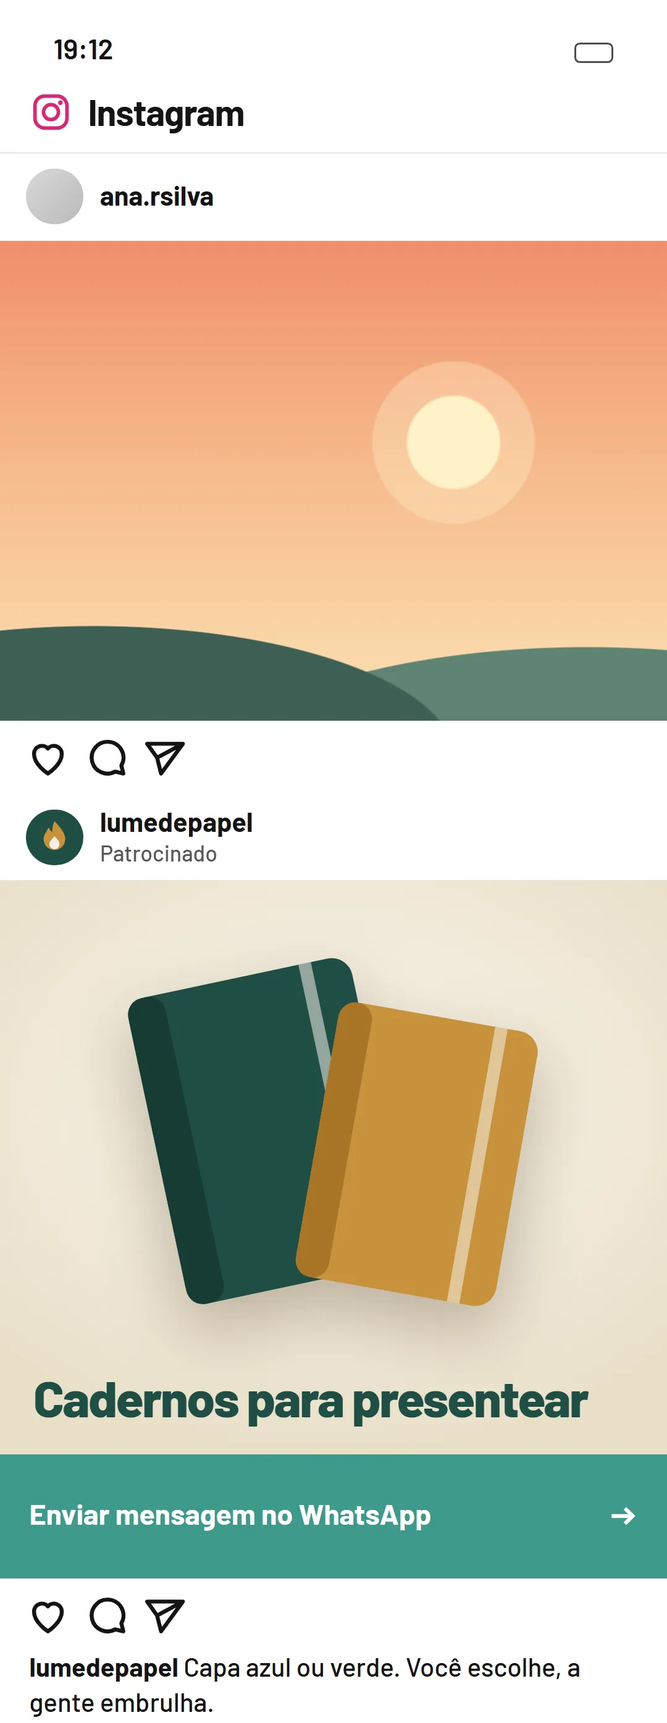
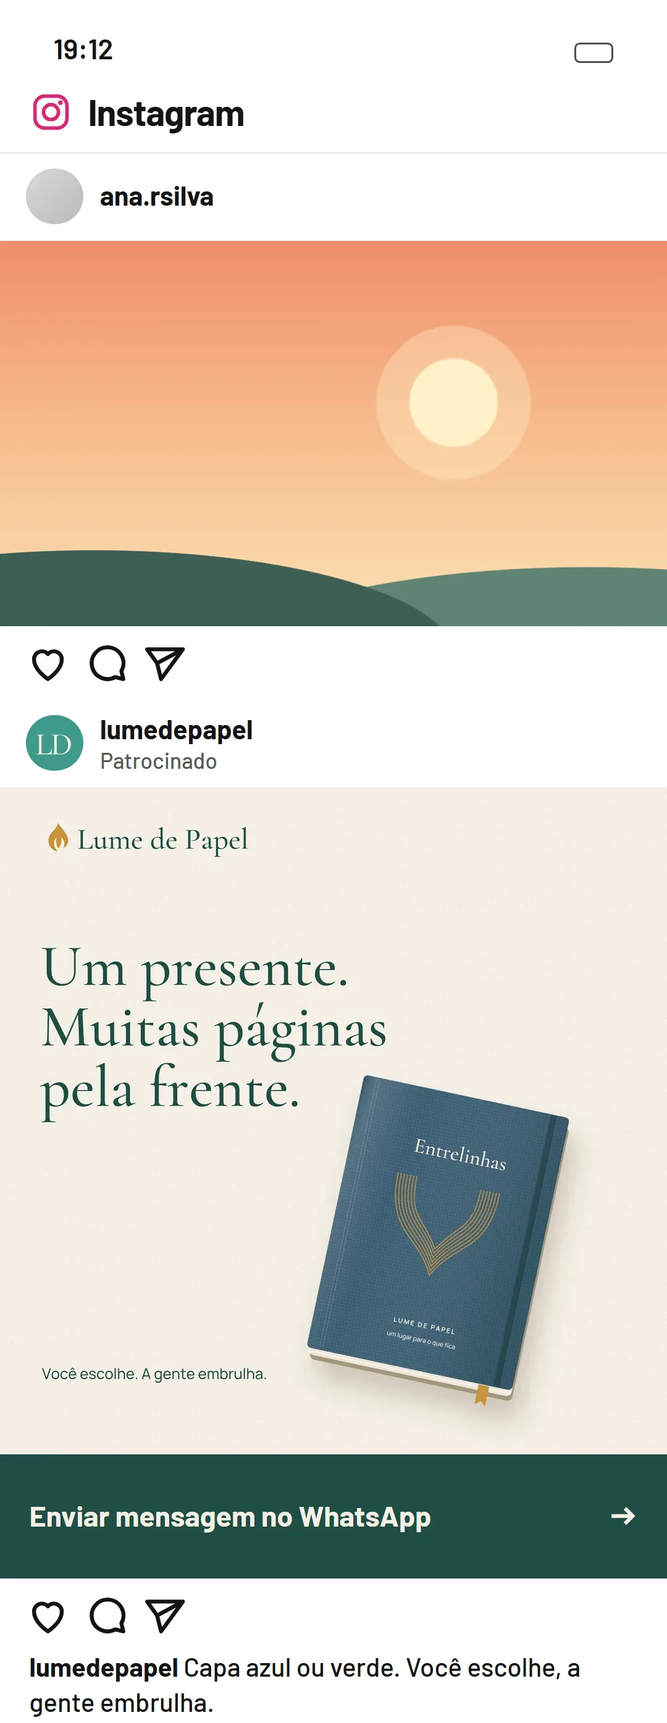
wip: marca Lume no site, parcial (Fable 5.2 parou no limite)

diff --git a/conceitos/d-site-feed/index.html b/conceitos/d-site-feed/index.html
@@ -32,9 +32,10 @@
 
 <link rel="preconnect" href="https://fonts.googleapis.com">
 <link rel="preconnect" href="https://fonts.gstatic.com" crossorigin>
-<link rel="preconnect" href="https://cdn.jsdelivr.net">
+<link rel="preconnect" href="https://cdn.jsdelivr.net" crossorigin>
 <link href="https://fonts.googleapis.com/css2?family=Barlow:wght@500;600;700;800;900&display=swap" rel="stylesheet">
-<link rel="preload" as="image" href="assets/fone.webp" fetchpriority="high">
+<link rel="modulepreload" href="https://cdn.jsdelivr.net/npm/three@0.160.0/build/three.module.min.js">
+<link rel="preload" as="image" href="assets/tela-atendimento.webp" fetchpriority="high">
 
 <script type="application/ld+json">
 {
@@ -244,9 +245,13 @@
 }
 </script>
 <style>
+/* as duas letras da Lume de Papel, em subconjunto local só com as letras que aparecem (lista no NOTAS.md, "Marca Lume no site") */
+@font-face{font-family:"Cormorant Garamond";src:url(assets/lume/cormorant-500.woff2) format("woff2");font-weight:500;font-display:swap}
+@font-face{font-family:Manrope;src:url(assets/lume/manrope-450.woff2) format("woff2");font-weight:450;font-display:swap}
+@font-face{font-family:Manrope;src:url(assets/lume/manrope-650.woff2) format("woff2");font-weight:650;font-display:swap}
 :root{
   --laranja:#FFA300; --preto:#070707; --branco:#F4F5F0; --papel:#ECE9E2; --tinta:#0A0A09; --cinza:#A9A9A2;
-  --lv:#3F998B; --lve:#1F4D45; --la:#C8923C; --lc:#F4EFE4; --lt:#1C2422;
+  --lv:#3F998B; --lve:#1F4D45; --la:#C8923C; --lc:#F4EFE4; --lt:#263B35; --l-serifa:"Cormorant Garamond",Georgia,serif; --l-sans:Manrope,Barlow,sans-serif;
   --g:20px; --max:1240px; --doca:84px; --persp:700px; --olho:110px;
   --ease:cubic-bezier(.16,.84,.24,1);
   interpolate-size:allow-keywords;
@@ -343,7 +348,7 @@ p a:active,address a:active{opacity:.55}
   p a{transition:background-color .2s;border-radius:3px}
   p a:hover{background-color:rgba(255,163,0,.4)}
   .laranja p a:hover{background-color:rgba(10,10,9,.16)}
-  .post-cta:hover{background:var(--lve)}
+  .post-cta:hover{background:#19423B}
   .doca a:hover,.doca button:hover{translate:0 -2px}
   .chip[aria-pressed=true]:hover svg{scale:1.1}
 }
@@ -454,27 +459,28 @@ html:not(.js) .parada .txt{opacity:1}
 
 /* ---------- 3. marca: o livro que se monta ---------- */
 .livro{position:relative;margin-top:36px;border-radius:24px;background:var(--lc);color:var(--lt);padding:14px;box-shadow:0 44px 70px -34px rgba(40,30,10,.5),inset 0 0 0 1px rgba(28,36,34,.09)}
-.livro-topo{display:flex;justify-content:space-between;align-items:center;gap:10px;padding:4px 6px 14px;font:700 11px/1.3 Barlow;letter-spacing:.14em;text-transform:uppercase}
-.pecas{display:grid;grid-template-columns:1fr 1fr;gap:10px}
+.livro-topo{display:flex;justify-content:space-between;align-items:center;gap:10px;padding:4px 6px 14px;font:700 11px/1.3 Barlow;letter-spacing:.1em;text-transform:uppercase}
+.livro-topo span span{display:none}
+.pecas{display:grid;grid-template-columns:repeat(10,1fr);grid-template-areas:"l l l l l l l l l l" "c c c c c c c c c c" "f f f f f f f f f f" "p p p p e e e e e e";gap:10px}
 .peca{position:relative;display:block;width:100%;padding:0;border:0;border-radius:15px;overflow:hidden;min-height:150px;background:#fff;color:inherit;text-align:left;cursor:pointer;transform:translate(calc(var(--dx,0px) * (1 - var(--m,1))),calc(var(--dy,60px) * (1 - var(--m,1)))) rotate(calc(var(--r,0deg) * (1 - var(--m,1))));opacity:calc(var(--m,1) * 2.2);transition:scale .35s var(--ease),box-shadow .35s}
 .peca.frente{scale:1.04;z-index:3;box-shadow:0 0 0 3px var(--laranja),0 26px 34px -14px rgba(40,30,10,.6)}
 .peca .leg{position:absolute;left:11px;bottom:9px;z-index:2;font:700 10px/1 Barlow;letter-spacing:.13em;text-transform:uppercase;opacity:.66}
-.larga{grid-column:span 2}
-.p-logo{background:radial-gradient(80% 90% at 80% 0%,#2C6B5F,var(--lve));color:var(--lc);display:grid;place-items:center}
-.lume-logo{display:flex;align-items:center;gap:12px;width:74%;max-width:330px;color:var(--lc)}
-.lume-logo svg:first-child{width:19%;height:auto;flex:none}
-.lume-logo svg:last-child{flex:1;height:auto;fill:currentColor}
-.p-cores{display:flex;min-height:98px}
-.p-cores span:not(.leg){flex:1;display:flex;flex-direction:column;justify-content:flex-end;padding:9px 8px;font:700 9.5px/1.3 Barlow;letter-spacing:.06em;text-transform:uppercase}
-.p-cores b{display:block;font-weight:600;opacity:.75;letter-spacing:.02em}
-.p-fachada{min-height:0}
-.p-fachada svg{width:100%;height:auto}
-.p-post{background:var(--lv);color:var(--lc);padding:13px 12px 30px;display:flex;flex-direction:column}
-.p-post svg{width:70%;margin:0 auto}
-.p-post em{margin-top:auto;font:800 18px/1.02 Barlow;font-style:normal;letter-spacing:-.025em}
-.p-sacola{background:#DCE7E3;display:grid;place-items:center}
-.p-sacola svg{width:56%;height:auto;margin-bottom:14px}
-.livro-leg{display:flex;align-items:center;gap:10px;min-height:52px;margin-top:12px;padding:10px 12px;border-radius:13px;background:var(--lve);color:var(--lc);font:500 14.5px/1.35 Barlow}
+.peca img{position:absolute;inset:0;width:100%;height:100%;object-fit:cover}
+.peca img+.leg{left:8px;bottom:8px;padding:5px 7px;border-radius:6px;background:rgba(244,239,228,.92);opacity:1}
+.p-logo{grid-area:l;background:var(--lve);color:var(--lc);display:grid;place-items:center}
+.lume-logo{width:74%;max-width:330px;height:auto;fill:currentColor}
+.p-cores{grid-area:c;min-height:0;display:flex;gap:8px;padding:10px 10px 11px}
+.p-cores span{flex:1;min-width:0;display:flex;flex-direction:column;gap:3px;font:500 clamp(13px,3.6vw,15.5px)/1.05 var(--l-serifa);color:var(--lve)}
+.p-cores i{height:52px;margin-bottom:5px;border-radius:7px}
+.p-cores b{font:650 9.5px/1.2 var(--l-sans);letter-spacing:.02em;color:var(--lt)}
+.p-fachada{grid-area:f;min-height:0;aspect-ratio:1100/655}
+.p-post{grid-area:p;min-height:0;aspect-ratio:1}
+.p-post{outline:1px solid rgba(38,59,53,.14);outline-offset:-1px}
+.p-post img+.leg{left:auto;right:8px;bottom:auto;top:8px}
+.p-sacola{grid-area:e;min-height:0}
+.livro-pe{display:grid;gap:10px;margin-top:12px}
+.livro-pe .btn svg{rotate:-45deg}
+.livro-leg{display:flex;align-items:center;gap:10px;min-height:54px;padding:10px 12px;border-radius:13px;background:var(--lve);color:var(--lc);font:500 14.5px/1.35 Barlow}
 .livro-leg b{font-weight:800;color:#F1C77B}
 .livro-leg::before{content:"";width:8px;height:8px;border-radius:50%;background:var(--la);flex:none;box-shadow:0 0 0 4px rgba(200,146,60,.3)}
 
@@ -492,14 +498,13 @@ html:not(.js) .parada .txt{opacity:1}
 .post-topo{display:flex;align-items:center;gap:2.6cqw;height:13cqw;padding:0 4cqw;font:700 4cqw/1.15 Barlow}
 .post-topo small{display:block;font:500 3.3cqw/1.2 Barlow;opacity:.7}
 .av{width:8.4cqw;height:8.4cqw;border-radius:50%;flex:none;background:linear-gradient(135deg,#d9d9d9,#b9b9b9);display:grid;place-items:center}
-.av-lume{background:var(--lve)}
-.av-lume svg{width:62%;height:62%}
+.av-lume,.g-site i{background:var(--lv);color:var(--lc)}
+.av-lume svg,.g-site i svg{width:100%;height:100%;fill:currentColor}
 .post-foto{position:relative;width:100%}
-.foto-a{height:72cqw;background:radial-gradient(circle at 68% 42%,#FFF1C9 0 8.5%,rgba(255,241,201,.35) 9% 15%,transparent 15.5%),radial-gradient(90% 46% at 14% 108%,#3E5F55 0 60%,transparent 60.5%),radial-gradient(100% 52% at 88% 116%,#5F8472 0 60%,transparent 60.5%),linear-gradient(180deg,#F08E6B,#F6B98A 46%,#FBE2B4)}
-.foto-ad{height:86cqw;background:radial-gradient(70% 60% at 50% 40%,#FBF7EE,#E9DFC8);display:grid;place-items:center;overflow:hidden}
-.foto-ad svg{width:76%;height:auto;margin-top:-12%;filter:drop-shadow(0 4cqw 5cqw rgba(60,40,10,.3))}
-.foto-ad p{position:absolute;left:5cqw;bottom:4.5cqw;right:5cqw;font:800 7.6cqw/1 Barlow;letter-spacing:-.03em;color:var(--lve)}
-.post-cta{display:flex;justify-content:space-between;align-items:center;height:18.6cqw;min-height:44px;padding:0 4.4cqw;background:var(--lv);color:#fff;font:700 4.3cqw/1 Barlow;text-decoration:none;transition:background .2s}
+.foto-a{height:58cqw;background:radial-gradient(circle at 68% 42%,#FFF1C9 0 8.5%,rgba(255,241,201,.35) 9% 15%,transparent 15.5%),radial-gradient(90% 46% at 14% 108%,#3E5F55 0 60%,transparent 60.5%),radial-gradient(100% 52% at 88% 116%,#5F8472 0 60%,transparent 60.5%),linear-gradient(180deg,#F08E6B,#F6B98A 46%,#FBE2B4)}
+.foto-ad{height:100cqw;background:var(--lc)}
+.foto-ad img{display:block;width:100%;height:100%;object-fit:cover}
+.post-cta{display:flex;justify-content:space-between;align-items:center;height:18.6cqw;min-height:44px;padding:0 4.4cqw;background:var(--lve);color:var(--lc);font:700 4.3cqw/1 Barlow;text-decoration:none;transition:background .2s}
 .post-cta:active{background:#143630}
 .post-cta svg{width:4.6cqw;height:4.6cqw}
 .post-acoes{height:11cqw;display:flex;align-items:center;padding:0 3.6cqw}
@@ -510,8 +515,7 @@ html:not(.js) .parada .txt{opacity:1}
 .g-busca svg{width:19px;height:19px;flex:none}
 .g-pat{margin-top:14px;font:700 13.5px/1 Barlow}
 .g-site{display:flex;align-items:center;gap:9px;margin-top:9px;font:500 13.5px/1.2 Barlow}
-.g-site i{width:28px;height:28px;border-radius:50%;background:var(--lve);display:grid;place-items:center;flex:none}
-.g-site i svg{width:16px;height:16px}
+.g-site i{width:28px;height:28px;border-radius:50%;display:grid;flex:none;overflow:hidden}
 .g-site small{display:block;font:500 12px/1.2 Barlow;color:#4d5156}
 .g-tit{margin-top:8px;font:500 19.5px/1.22 Barlow;color:#1a0dab}
 .g-desc{margin-top:5px;font:500 14px/1.42 Barlow;color:#4d5156}
@@ -648,15 +652,14 @@ html:not(.js) .serie,html:not(.js) .serie-leg{display:none}
 .msg.nota small span{color:#B9591A;background:#F3DCCB;padding:.3cqw 1.8cqw;border-radius:3cqw;margin-left:1cqw;white-space:nowrap}
 .chat-campo{flex:none;margin:0 3.4cqw 4.4cqw;height:12cqw;border-radius:6cqw;background:#fff;display:flex;align-items:center;justify-content:space-between;padding:0 1.2cqw 0 5cqw;font:500 4.1cqw/1 Barlow;color:#8b8f8e}
 .chat-campo i{width:9.6cqw;height:9.6cqw;border-radius:50%;background:var(--lv)}
-.pdf{position:absolute;z-index:5;top:9%;right:max(34px,calc(50% - 196px));width:min(44vw,190px);padding:13px 13px 14px;border-radius:6px;background:#fff;color:var(--lt);box-shadow:0 30px 50px -14px rgba(60,20,0,.6),0 0 0 1px rgba(0,0,0,.05);font:500 11px/1.4 Barlow;transform-origin:20% 100%;opacity:0;will-change:transform,opacity}
-.pdf-topo{display:flex;align-items:center;gap:6px;padding-bottom:8px;border-bottom:2px solid var(--lve);color:var(--lve)}
-.pdf-topo svg:first-child{width:17px;height:17px;flex:none}
-.pdf-topo svg:last-child{width:86px;height:auto;fill:currentColor}
-.pdf-tit{margin:10px 0 2px;font:800 17px/1 Barlow;letter-spacing:-.02em}
+.pdf{position:absolute;z-index:5;top:9%;right:max(34px,calc(50% - 196px));width:min(44vw,190px);padding:13px 13px 14px;border-radius:6px;background:#fff;color:var(--lt);box-shadow:0 30px 50px -14px rgba(60,20,0,.6),0 0 0 1px rgba(0,0,0,.05);font:450 11px/1.4 var(--l-sans);transform-origin:20% 100%;opacity:0;will-change:transform,opacity}
+.pdf-topo{padding-bottom:9px;border-bottom:1.5px solid var(--lve);color:var(--lve)}
+.pdf-topo svg{display:block;width:106px;height:auto;fill:currentColor}
+.pdf-tit{margin:10px 0 3px;font:500 1.6em/1 var(--l-serifa);color:var(--lve)}
 .pdf dl{margin-top:8px}
 .pdf dl div{display:flex;justify-content:space-between;gap:8px;padding:5px 0;border-top:1px solid rgba(28,36,34,.12)}
 .pdf dt{opacity:.7}
-.pdf dd{font-weight:700;white-space:nowrap}
+.pdf dd{font-weight:650;white-space:nowrap}
 .pdf .total{font-size:13px}
 .pdf .selo{display:inline-block;margin-top:10px;padding:5px 8px;border-radius:5px;background:var(--tinta);color:var(--laranja);font:700 9.5px/1 Barlow;letter-spacing:.12em;text-transform:uppercase}
 .pdf .arq{display:block;margin-top:7px;font:600 9.5px/1 Barlow;opacity:.55}
@@ -821,9 +824,11 @@ html:not(.js) .d-indice{display:none}
   li:nth-child(even) .parada .no{margin-left:84px}
   .parada h3{font-size:32px}
   .livro{padding:22px}
-  .pecas{grid-template-columns:repeat(4,1fr);gap:14px}
-  .p-fachada{grid-column:span 2}
-  .p-logo{min-height:200px}
+  .livro-topo span span{display:inline}
+  .pecas{grid-template-areas:"l l l l l l p p p p" "c c c c c c c c c c" "f f f f f e e e e e";gap:14px}
+  .p-fachada,.p-sacola{aspect-ratio:8/5}
+  .p-cores{gap:12px;padding:14px 14px 15px}
+  .livro-pe{grid-template-columns:1fr auto;gap:12px;align-items:center}
   .af{width:320px}
   .g-card{margin-top:-96px;margin-right:2%}
   .painel,.agenda{padding:28px 30px 22px}
@@ -834,7 +839,7 @@ html:not(.js) .d-indice{display:none}
   .cap p:not(.kicker){font-size:18px}
   .palco-cena{top:calc(56px + 230px + 20px)}
   .pdf{width:230px;font-size:13px;right:calc(50% - 300px)}
-  .pdf-topo svg:last-child{width:110px}
+  .pdf-topo svg{width:130px}
   .lq{width:min(34vw,300px)}
   .leque{height:calc(min(34vw,300px) * 2.155 + 30px)}
   .chips{grid-template-columns:1fr 1fr}
@@ -870,7 +875,6 @@ html:not(.js) .d-indice{display:none}
   .caminho .wrap,.marca-sec .wrap{display:grid;grid-template-columns:.85fr 1.15fr;gap:0 72px;align-items:start}
   .caminho .cab,.marca-sec .cab{position:sticky;top:110px}
   .rota,.livro{margin-top:0}
-  .p-logo{min-height:240px}
   .trafego .wrap{display:grid;grid-template-columns:1fr 1fr;gap:0 72px;align-items:center}
   .trafego .anuncio-cena{margin-top:0}
   .trafego .painel{grid-column:1/-1;margin-top:90px}
@@ -903,7 +907,7 @@ html:not(.js) .d-indice{display:none}
   .palco-cena>.fone{height:min(100%,62vw)}
   /* a proposta encosta na lateral direita do aparelho (meia largura dele = 19vh ou 14,4vw), antes do índice */
   .pdf{width:260px;font-size:14px;left:calc(50% + min(19vh,14.4vw) - 36px);right:auto;top:calc(50% - min(41vh,31vw) * .68);padding:20px}
-  .pdf-topo svg:last-child{width:130px}
+  .pdf-topo svg{width:150px}
   .prova{padding:120px 0 110px}
   .prova .wrap{display:grid;grid-template-columns:1.2fr .8fr;gap:72px;align-items:end}
   .prova .convite{margin-top:0;grid-template-columns:1fr;border-top:0;padding:28px;border-radius:26px;background:var(--branco);box-shadow:0 30px 50px -30px rgba(40,30,10,.4)}
@@ -955,7 +959,7 @@ html:not(.js) .d-indice{display:none}
 /* tablet deitado e notebook estreito: a proposta encolhe e o índice do palco fica só com os traços */
 @media (min-width:1024px) and (max-width:1365px){
   .pdf{width:230px;font-size:13px;padding:16px}
-  .pdf-topo svg:last-child{width:112px}
+  .pdf-topo svg{width:132px}
 }
 @media (min-width:1024px) and (max-width:1279px){
   .palco-indice a{font-size:0;gap:0;padding-left:0;min-width:44px}
@@ -979,9 +983,8 @@ html:not(.js) .d-indice{display:none}
   <symbol id="i-check" viewBox="0 0 16 16"><path fill="none" stroke="currentColor" stroke-width="2.4" stroke-linecap="round" stroke-linejoin="round" d="m3 8.5 3.2 3.2L13 4.8"/></symbol>
   <symbol id="i-menu" viewBox="0 0 18 18"><path fill="none" stroke="currentColor" stroke-width="2.2" stroke-linecap="round" d="M3 5h12M3 9h8M3 13h12"/></symbol>
   <symbol id="i-acoes" viewBox="0 0 84 24"><g fill="none" stroke="#141414" stroke-width="2" stroke-linejoin="round"><path d="M12 20s-7-4.4-7-10a4 4 0 0 1 7-2.6A4 4 0 0 1 19 10c0 5.600-7 10-7 10z"/><path d="M42 4a8 8 0 1 0 3.900 15l4.100 1-1-4A8 8 0 0 0 42 4z"/><path d="m62 5 18 0-11 15-2-8zM67 12l13-7"/></g></symbol>
-  <symbol id="lume" viewBox="0 0 48 48"><path fill="#C8923C" d="M24 3c8 9 15 16 15 25a15 15 0 0 1-30 0c0-6 4-10 7-16 2 3 3 5 5 6 0-6 1-10 3-15z"/><path fill="#F4EFE4" d="M24 24c4 4 7 7 7 11a7 7 0 0 1-14 0c0-4 4-7 7-11z"/></symbol>
-  <symbol id="lume-nome" viewBox="0 -234 1692 312"><path d="M90 -208L90 -208L78 -206Q75 -206 74 -205Q72 -204 72 -202L72 -202L72 -9Q72 -6 74 -4Q76 -3 79 -3L79 -3L107 -3Q115 -3 121 -6Q128 -9 135 -16Q141 -24 148 -37L148 -37L163 -67Q163 -67 164 -68Q164 -68 165 -68L165 -68Q165 -68 165 -67Q166 -66 165 -65L165 -65L151 1Q151 3 151 4Q150 4 150 4L150 4Q149 4 147 3Q145 2 142 1Q139 0 134 0L134 0L12 0Q11 0 11 0Q10 -1 10 -1L10 -1Q10 -2 12 -2L12 -2L24 -4Q27 -4 29 -5Q30 -6 30 -8L30 -8L30 -202Q30 -204 29 -205Q27 -206 24 -206L24 -206L12 -208Q10 -208 10 -209L10 -209Q10 -209 11 -210Q11 -210 12 -210L12 -210L90 -210Q91 -210 91 -210Q92 -209 92 -209L92 -209Q92 -208 90 -208M264 -4L264 -4L264 -24L264 -25L264 -117Q264 -118 263 -119Q263 -119 262 -119L262 -119L252 -119Q251 -119 251 -120Q251 -120 251 -120L251 -120Q251 -121 251 -121Q251 -121 252 -121L252 -121L295 -133Q296 -134 297 -134Q297 -134 298 -134L298 -134Q299 -134 299 -134Q300 -133 300 -132L300 -132L300 -8Q300 -6 300 -5Q301 -4 303 -4L303 -4L311 -2Q312 -2 313 -2Q313 -1 313 -1L313 -1Q313 -1 313 0Q312 0 312 0L312 0L268 0Q266 0 265 -1Q264 -2 264 -4M179 -35L179 -35L179 -117Q179 -118 178 -119Q178 -119 177 -119L177 -119L167 -119Q166 -119 166 -120Q166 -120 166 -120L166 -120Q166 -121 166 -121Q166 -121 167 -121L167 -121L210 -133Q211 -134 212 -134Q212 -134 213 -134L213 -134Q214 -134 214 -134Q215 -133 215 -132L215 -132L215 -39Q215 -25 221 -19Q227 -13 237 -13L237 -13Q243 -13 249 -16Q256 -19 262 -24L262 -24L267 -29L269 -28L264 -23Q248 -9 236 -3Q223 3 213 3L213 3Q198 3 188 -7Q179 -16 179 -35M365 -132L365 -132L365 -8Q365 -6 366 -5Q367 -4 369 -3L369 -3L377 -2Q378 -2 378 -1L378 -1Q378 0 377 0L377 0L317 0Q316 0 316 0Q316 -1 316 -1L316 -1Q316 -1 316 -2Q317 -2 317 -2L317 -2L326 -4Q328 -4 328 -5Q329 -6 329 -8L329 -8L329 -117Q329 -118 329 -119Q329 -120 327 -120L327 -120L317 -120Q317 -120 316 -120Q316 -120 316 -121L316 -121Q316 -121 316 -121Q317 -122 317 -122L317 -122L360 -134Q362 -134 362 -134Q363 -134 363 -134L363 -134Q364 -134 365 -134Q365 -133 365 -132M367 -108L362 -103L361 -104L366 -109Q381 -123 393 -129Q406 -135 416 -135L416 -135Q431 -135 440 -126Q450 -116 450 -97L450 -97L450 -8Q450 -6 451 -5Q452 -3 454 -3L454 -3L460 -2Q461 -2 461 -1L461 -1Q461 0 459 0L459 0L402 0Q401 0 401 -1L401 -1Q401 -2 402 -2L402 -2L410 -3Q413 -4 414 -6Q414 -7 414 -10L414 -10L414 -93Q414 -106 408 -112Q402 -119 393 -119L393 -119Q386 -119 380 -116Q373 -114 367 -108L367 -108M450 -108L446 -103L444 -104L449 -110Q461 -123 471 -129Q482 -135 493 -135L493 -135Q507 -135 516 -126Q525 -116 527 -97L527 -97L539 -8Q539 -6 540 -5Q541 -3 543 -3L543 -3L549 -2Q549 -2 550 -2Q550 -1 550 -1L550 -1Q550 -1 550 0Q549 0 549 0L549 0L489 0Q488 0 488 -1L488 -1Q488 -2 490 -2L490 -2L497 -3Q500 -4 501 -6Q502 -8 502 -10L502 -10L492 -93Q491 -106 485 -112Q480 -119 471 -119L471 -119Q466 -119 461 -116Q456 -114 450 -108L450 -108M670 -78L670 -78Q670 -76 669 -75Q668 -75 666 -75L666 -75L573 -75L573 -77L631 -77Q634 -77 634 -80L634 -80Q634 -107 627 -120Q620 -132 609 -132L609 -132Q601 -132 595 -127Q589 -121 585 -109Q582 -97 582 -79L582 -79Q582 -48 595 -32Q608 -17 629 -17L629 -17Q644 -17 655 -26Q666 -34 667 -49L667 -49Q667 -49 667 -50Q668 -50 668 -50L668 -50Q668 -50 668 -50Q669 -49 669 -49L669 -49Q668 -34 660 -22Q652 -10 640 -4Q627 3 611 3L611 3Q593 3 579 -5Q565 -13 557 -28Q549 -43 549 -63L549 -63Q549 -85 557 -101Q565 -117 579 -126Q594 -135 614 -135L614 -135Q631 -135 643 -127Q656 -120 663 -107Q670 -94 670 -78M813 -4L813 -17L813 -18L813 -206Q813 -207 812 -207Q812 -208 811 -208L811 -208L801 -208Q800 -208 800 -208Q799 -208 799 -209L799 -209Q799 -210 800 -210Q800 -210 801 -210L801 -210L844 -222Q845 -222 846 -223Q846 -223 847 -223L847 -223Q847 -223 848 -222Q848 -222 848 -221L848 -221L848 -8Q848 -6 849 -5Q850 -4 852 -4L852 -4L860 -2Q861 -2 861 -2Q862 -1 862 -1L862 -1Q862 -1 861 0Q861 0 861 0L861 0L816 0Q815 0 814 -1Q813 -2 813 -4L813 -4M717 -62L717 -62Q717 -84 726 -101Q734 -117 748 -126Q763 -135 780 -135L780 -135Q795 -135 804 -129Q814 -123 819 -113L819 -113L817 -112Q813 -120 805 -125Q798 -130 788 -130L788 -130Q779 -130 771 -124Q763 -117 758 -103Q754 -89 754 -65L754 -65Q754 -44 758 -31Q762 -18 769 -11Q776 -5 785 -5L785 -5Q792 -5 800 -9Q808 -13 815 -23L815 -23L817 -21Q806 -8 796 -2Q785 3 773 3L773 3Q757 3 744 -5Q732 -13 724 -27Q717 -42 717 -62M983 -78L983 -78Q983 -76 982 -75Q981 -75 980 -75L980 -75L887 -75L887 -77L945 -77Q947 -77 947 -80L947 -80Q947 -107 940 -120Q933 -132 923 -132L923 -132Q915 -132 908 -127Q902 -121 899 -109Q895 -97 895 -79L895 -79Q895 -48 908 -32Q921 -17 942 -17L942 -17Q958 -17 968 -26Q979 -34 980 -49L980 -49Q981 -49 981 -50Q981 -50 981 -50L981 -50Q982 -50 982 -50Q982 -49 982 -49L982 -49Q981 -34 974 -22Q966 -10 953 -4Q940 3 925 3L925 3Q906 3 892 -5Q878 -13 870 -28Q862 -43 862 -63L862 -63Q862 -85 870 -101Q878 -117 893 -126Q908 -135 927 -135L927 -135Q944 -135 957 -127Q969 -120 976 -107Q983 -94 983 -78M1207 -131L1207 -131Q1207 -111 1198 -96Q1188 -81 1172 -72Q1155 -64 1134 -64L1134 -64Q1117 -64 1105 -68Q1093 -72 1083 -79L1083 -79L1083 -81Q1090 -76 1096 -74Q1103 -71 1109 -70Q1115 -68 1121 -68L1121 -68Q1134 -68 1144 -76Q1154 -83 1160 -97Q1166 -112 1166 -132L1166 -132Q1166 -156 1159 -173Q1151 -190 1138 -198Q1125 -207 1109 -207L1109 -207L1096 -207L1096 -8Q1096 -6 1098 -6Q1099 -5 1102 -4L1102 -4L1114 -2Q1115 -2 1116 -2Q1116 -1 1116 -1L1116 -1Q1116 -1 1116 0Q1115 0 1115 0L1115 0L1036 0Q1035 0 1035 0Q1034 -1 1034 -1L1034 -1Q1034 -2 1036 -2L1036 -2L1049 -4Q1052 -5 1053 -6Q1054 -7 1054 -8L1054 -8L1054 -201Q1054 -203 1053 -204Q1052 -205 1049 -206L1049 -206L1036 -208Q1034 -208 1034 -209L1034 -209Q1034 -210 1035 -210Q1035 -210 1036 -210L1036 -210L1109 -210Q1138 -210 1160 -200Q1182 -190 1195 -172Q1207 -155 1207 -131M1290 -14L1290 -14L1290 -15L1288 -14L1288 -110Q1288 -121 1284 -127Q1279 -133 1271 -133L1271 -133Q1261 -133 1257 -128Q1252 -123 1252 -117L1252 -117L1252 -105Q1252 -98 1247 -93Q1242 -87 1233 -87L1233 -87Q1227 -87 1223 -91Q1220 -94 1220 -102L1220 -102Q1220 -110 1226 -117Q1232 -125 1245 -130Q1257 -135 1275 -135L1275 -135Q1300 -135 1312 -124Q1324 -114 1324 -95L1324 -95L1324 -17Q1324 -12 1326 -10Q1328 -7 1330 -7L1330 -7Q1333 -7 1335 -9Q1337 -11 1338 -15L1338 -15Q1338 -15 1338 -15Q1338 -16 1339 -16L1339 -16Q1339 -16 1339 -15Q1339 -15 1339 -15L1339 -15Q1339 -12 1337 -8Q1334 -4 1328 -1Q1322 3 1313 3L1313 3Q1301 3 1295 -2Q1290 -7 1290 -14M1212 -29L1212 -29Q1212 -45 1226 -55Q1239 -65 1269 -65L1269 -65Q1278 -65 1284 -64Q1290 -62 1295 -59L1295 -59L1293 -58Q1288 -60 1283 -62Q1278 -63 1271 -63L1271 -63Q1260 -63 1254 -55Q1248 -48 1248 -34L1248 -34Q1248 -21 1254 -14Q1260 -7 1269 -7L1269 -7Q1275 -7 1281 -10Q1287 -13 1291 -19L1291 -19L1293 -18Q1286 -8 1275 -3Q1263 3 1250 3L1250 3Q1233 3 1223 -6Q1212 -15 1212 -29M1389 -133L1389 -133L1389 -114L1389 -113L1389 62Q1389 64 1390 65Q1391 66 1393 67L1393 67L1402 68Q1403 68 1404 69Q1404 69 1404 69L1404 69Q1404 70 1404 70Q1403 70 1403 70L1403 70L1342 70Q1342 70 1341 70Q1341 70 1341 69L1341 69Q1341 69 1341 68Q1342 68 1343 68L1343 68L1350 67Q1352 66 1353 65Q1353 64 1353 62L1353 62L1353 -119Q1353 -120 1353 -120Q1353 -121 1352 -121L1352 -121L1342 -121Q1341 -121 1341 -121Q1340 -121 1340 -122L1340 -122Q1340 -122 1341 -122Q1341 -123 1342 -123L1342 -123L1385 -135Q1386 -135 1387 -135Q1387 -135 1388 -135L1388 -135Q1388 -135 1389 -135Q1389 -134 1389 -133M1387 -108L1387 -108L1385 -110Q1395 -122 1406 -129Q1417 -135 1430 -135L1430 -135Q1446 -135 1459 -127Q1471 -119 1478 -104Q1485 -90 1485 -70L1485 -70Q1485 -47 1477 -31Q1469 -15 1455 -6Q1441 3 1423 3L1423 3Q1409 3 1399 -2Q1390 -8 1384 -19L1384 -19L1387 -21Q1391 -12 1398 -7Q1405 -2 1413 -2L1413 -2Q1424 -2 1431 -8Q1439 -14 1444 -28Q1449 -42 1449 -66L1449 -66Q1449 -88 1445 -101Q1440 -115 1433 -121Q1427 -127 1418 -127L1418 -127Q1410 -127 1402 -123Q1394 -118 1387 -108M1612 -78L1612 -78Q1612 -76 1611 -75Q1610 -75 1608 -75L1608 -75L1516 -75L1516 -77L1574 -77Q1576 -77 1576 -80L1576 -80Q1576 -107 1569 -120Q1562 -132 1552 -132L1552 -132Q1543 -132 1537 -127Q1531 -121 1528 -109Q1524 -97 1524 -79L1524 -79Q1524 -48 1537 -32Q1550 -17 1571 -17L1571 -17Q1587 -17 1597 -26Q1608 -34 1609 -49L1609 -49Q1609 -49 1610 -50Q1610 -50 1610 -50L1610 -50Q1610 -50 1611 -50Q1611 -49 1611 -49L1611 -49Q1610 -34 1602 -22Q1595 -10 1582 -4Q1569 3 1554 3L1554 3Q1535 3 1521 -5Q1507 -13 1499 -28Q1491 -43 1491 -63L1491 -63Q1491 -85 1499 -101Q1507 -117 1522 -126Q1536 -135 1556 -135L1556 -135Q1573 -135 1586 -127Q1598 -120 1605 -107Q1612 -94 1612 -78M1667 -221L1667 -221L1667 -8Q1667 -6 1668 -5Q1669 -4 1671 -4L1671 -4L1679 -2Q1680 -2 1680 -2Q1680 -1 1680 -1L1680 -1Q1680 -1 1680 0Q1680 0 1679 0L1679 0L1619 0Q1618 0 1618 0Q1617 -1 1617 -1L1617 -1Q1617 -1 1618 -2Q1618 -2 1619 -2L1619 -2L1627 -4Q1629 -4 1630 -5Q1631 -6 1631 -8L1631 -8L1631 -206Q1631 -207 1631 -207Q1630 -208 1629 -208L1629 -208L1619 -208Q1619 -208 1618 -208Q1618 -208 1618 -209L1618 -209Q1618 -210 1618 -210Q1619 -210 1619 -210L1619 -210L1662 -222Q1664 -222 1664 -223Q1665 -223 1665 -223L1665 -223Q1666 -223 1666 -222Q1667 -222 1667 -221"/></symbol>
-  <symbol id="cadernos" viewBox="0 0 120 100"><g transform="rotate(-12 45 52)"><rect x="18" y="14" width="54" height="74" rx="5" fill="#1F4D45"/><rect x="18" y="14" width="9" height="74" rx="4" fill="#173B35"/><rect x="60" y="14" width="3" height="74" fill="#F4EFE4" opacity=".55"/></g><g transform="rotate(10 82 56)"><rect x="56" y="24" width="48" height="66" rx="5" fill="#C8923C"/><rect x="56" y="24" width="8" height="66" rx="4" fill="#A87528"/><rect x="93" y="24" width="3" height="66" fill="#F4EFE4" opacity=".55"/></g></symbol>
+  <symbol id="lume-logo" viewBox="27 12 609 104"><path fill="#C8923C" transform="translate(18 11) scale(.8)" d="M48 2C45 24 21 35 14 56C5 83 22 105 47 111C30 92 28 72 42 56C38 76 44 91 49 99C58 87 66 73 59 56C72 66 78 81 67 99C90 86 91 65 80 46C72 32 58 18 48 2Z"/><path transform="translate(115 91) scale(0.091 -0.091)" d="M194 543V85Q194 59 199 45Q205 32 220 28Q236 23 267 23H352Q417 23 458 61Q499 99 512 162Q512 165 517 164Q523 164 523 161Q520 132 517 91Q514 50 514 15Q514 0 499 0H33Q31 0 31 6Q31 12 33 12Q68 12 85 17Q103 22 109 37Q115 52 115 81V544Q115 573 109 588Q103 602 85 608Q68 613 33 613Q31 613 31 619Q31 625 33 625Q57 625 88 624Q120 622 154 622Q190 622 220 624Q251 625 275 625Q277 625 277 619Q277 613 275 613Q240 613 223 608Q206 602 200 587Q194 572 194 543Z"/><path transform="translate(163.867 91) scale(0.091 -0.091)" d="M185 -9Q134 -9 105 23Q75 56 75 114V265Q75 303 68 320Q62 337 45 337Q32 337 14 328Q10 326 8 332Q5 338 9 339L127 394Q129 395 131 395Q135 395 139 392Q143 389 143 385V152Q143 94 164 67Q184 39 226 39Q262 39 298 60Q333 81 358 115L363 104Q321 48 277 19Q234 -9 185 -9ZM407 385V110Q407 76 414 61Q422 46 440 46Q449 46 461 50Q472 53 489 60Q493 62 496 56Q498 51 495 49L371 -10Q369 -11 366 -11Q358 -11 349 11Q339 34 339 76V265Q339 303 332 320Q325 337 309 337Q296 337 277 328Q274 326 272 332Q269 338 273 339L391 394Q393 395 395 395Q398 395 402 392Q407 389 407 385Z"/><path transform="translate(209.094 91) scale(0.091 -0.091)" d="M559 0Q557 0 557 6Q557 12 559 12Q596 12 608 26Q620 39 620 81V235Q620 349 537 349Q503 349 469 328Q435 307 411 272L407 284Q447 340 489 369Q531 397 578 397Q630 397 659 367Q687 337 687 274V81Q687 39 699 26Q710 12 747 12Q751 12 751 6Q751 0 747 0Q729 0 705 1Q680 2 653 2Q627 2 602 1Q578 0 559 0ZM300 0Q297 0 297 6Q297 12 300 12Q336 12 348 26Q360 39 360 81V235Q360 349 278 349Q243 349 210 328Q176 307 152 272L148 284Q188 340 230 369Q272 397 318 397Q370 397 399 368Q428 338 428 279V81Q428 39 439 26Q451 12 488 12Q491 12 491 6Q491 0 488 0Q469 0 445 1Q421 2 394 2Q367 2 343 1Q318 0 300 0ZM43 0Q40 0 40 6Q40 12 43 12Q79 12 91 26Q102 39 102 81V276Q102 308 95 323Q87 338 69 338Q59 338 46 335Q33 331 16 324Q12 322 10 328Q8 333 11 335L134 394Q138 395 140 395Q149 395 160 373Q171 351 171 310V81Q171 39 182 26Q194 12 231 12Q234 12 234 6Q234 0 231 0Q212 0 188 1Q164 2 137 2Q110 2 86 1Q61 0 43 0Z"/><path transform="translate(278.982 91) scale(0.091 -0.091)" d="M224 -12Q162 -12 120 15Q78 43 56 87Q35 131 35 181Q35 241 63 289Q92 338 141 366Q190 395 250 395Q308 395 340 366Q371 337 371 281Q371 268 369 260Q366 253 359 253H290Q294 313 275 344Q255 375 216 375Q167 375 139 333Q112 291 112 220Q112 163 130 120Q148 76 183 52Q218 28 268 28Q301 28 322 37Q344 46 367 59Q369 61 372 57Q376 52 374 49Q338 16 301 2Q264 -12 224 -12ZM89 252 88 267 312 271V253Z"/><path transform="translate(337.677 91) scale(0.091 -0.091)" d="M191 -13Q149 -13 114 11Q78 34 56 77Q35 120 35 179Q35 238 56 279Q78 321 112 347Q147 373 187 386Q227 399 263 399Q299 399 329 388Q360 377 386 359L370 287Q347 328 317 352Q287 377 240 377Q182 377 147 336Q111 295 111 210Q111 153 128 112Q144 71 172 49Q200 27 235 27Q279 27 312 51Q345 75 375 109L384 101Q363 77 335 50Q307 24 271 6Q236 -13 191 -13ZM421 715V112Q421 77 429 61Q437 46 455 46Q464 46 476 48Q489 51 504 59Q508 61 510 55Q513 50 510 48L391 -9Q387 -11 384 -11Q372 -11 363 13Q353 37 353 81V594Q353 630 347 646Q340 662 322 662Q313 662 303 658Q293 655 278 648Q274 647 272 653Q269 659 272 660L405 724Q407 725 410 725Q413 725 417 722Q421 719 421 715Z"/><path transform="translate(384.269 91) scale(0.091 -0.091)" d="M224 -12Q162 -12 120 15Q78 43 56 87Q35 131 35 181Q35 241 63 289Q92 338 141 366Q190 395 250 395Q308 395 340 366Q371 337 371 281Q371 268 369 260Q366 253 359 253H290Q294 313 275 344Q255 375 216 375Q167 375 139 333Q112 291 112 220Q112 163 130 120Q148 76 183 52Q218 28 268 28Q301 28 322 37Q344 46 367 59Q369 61 372 57Q376 52 374 49Q338 16 301 2Q264 -12 224 -12ZM89 252 88 267 312 271V253Z"/><path transform="translate(442.964 91) scale(0.091 -0.091)" d="M200 85Q200 55 207 40Q215 24 239 18Q263 12 311 12Q314 12 314 6Q314 0 311 0Q279 0 242 1Q204 2 160 2Q127 2 96 1Q64 0 39 0Q37 0 37 6Q37 12 39 12Q74 12 92 17Q109 22 115 37Q120 52 120 81V544Q120 573 115 588Q109 602 92 608Q74 613 39 613Q37 613 37 619Q37 625 39 625Q64 625 95 624Q126 622 159 622Q185 622 222 625Q260 628 298 628Q356 628 403 611Q449 594 477 558Q505 522 506 464Q506 412 487 374Q468 336 435 311Q403 286 364 274Q324 262 286 262Q274 262 262 263Q249 264 238 267Q234 268 236 274Q237 281 240 280Q249 278 259 277Q268 276 275 276Q313 276 345 294Q377 312 397 349Q417 387 417 443Q417 497 398 534Q380 571 347 591Q314 611 271 611Q243 611 227 607Q212 603 206 588Q200 573 200 542Z"/><path transform="translate(492.65 91) scale(0.091 -0.091)" d="M316 -6Q312 -8 307 -8Q292 -8 278 14Q265 37 265 79V262Q265 324 250 351Q234 377 207 377Q182 377 167 364Q152 350 146 332Q139 315 136 300Q134 281 124 268Q115 255 93 255Q73 255 64 265Q55 275 55 287Q55 308 74 327Q94 346 124 362Q154 378 186 387Q219 396 245 396Q286 396 309 370Q333 343 333 292V108Q333 75 342 59Q351 43 371 43Q388 43 415 54Q419 56 421 50Q424 45 419 43ZM132 -7Q92 -7 71 13Q51 33 51 63Q51 87 64 104Q77 120 101 133Q126 146 161 159L275 201L278 188L187 151Q172 145 159 137Q147 129 139 118Q131 106 131 90Q131 66 147 51Q163 35 186 35Q195 35 205 38Q215 41 229 49L288 86L290 72L217 24Q194 7 174 0Q155 -7 132 -7Z"/><path transform="translate(530.87 91) scale(0.091 -0.091)" d="M30 -275Q27 -275 27 -269Q27 -263 30 -263Q68 -263 79 -250Q91 -237 91 -194V274Q91 308 83 323Q76 339 56 339Q47 339 34 335Q21 332 5 324Q1 323 -2 328Q-4 334 -1 335L119 393Q122 395 126 395Q139 395 149 372Q159 349 159 304V-194Q159 -222 166 -237Q173 -252 194 -258Q214 -263 255 -263Q258 -263 258 -269Q258 -275 255 -275Q228 -275 195 -274Q162 -273 125 -273Q98 -273 73 -274Q48 -275 30 -275ZM258 -13Q220 -13 191 -5Q163 3 126 25L147 82Q173 51 204 30Q234 9 285 9Q335 9 367 54Q400 98 400 184Q400 269 362 312Q324 356 271 356Q229 356 197 333Q166 310 136 277L127 286Q178 345 225 372Q272 399 320 399Q362 399 397 378Q432 356 454 315Q475 274 475 215Q475 153 455 110Q434 66 401 39Q367 12 330 0Q293 -13 258 -13Z"/><path transform="translate(577.371 91) scale(0.091 -0.091)" d="M224 -12Q162 -12 120 15Q78 43 56 87Q35 131 35 181Q35 241 63 289Q92 338 141 366Q190 395 250 395Q308 395 340 366Q371 337 371 281Q371 268 369 260Q366 253 359 253H290Q294 313 275 344Q255 375 216 375Q167 375 139 333Q112 291 112 220Q112 163 130 120Q148 76 183 52Q218 28 268 28Q301 28 322 37Q344 46 367 59Q369 61 372 57Q376 52 374 49Q338 16 301 2Q264 -12 224 -12ZM89 252 88 267 312 271V253Z"/><path transform="translate(614.772 91) scale(0.091 -0.091)" d="M38 0Q36 0 36 6Q36 12 38 12Q75 12 87 26Q98 39 98 81L99 595Q99 630 92 646Q86 662 68 662Q53 662 25 649Q21 647 18 653Q16 659 19 660L153 724Q155 725 157 725Q160 725 165 722Q169 719 169 715V81Q169 40 180 26Q191 12 228 12Q232 12 232 6Q232 0 228 0Q210 0 185 1Q161 2 133 2Q106 2 82 1Q57 0 38 0Z"/></symbol>
+  <symbol id="lume-ld" viewBox="0 0 160 160"><g transform="translate(0 5)"><path transform="translate(27.015 107) scale(0.09 -0.09)" d="M194 543V85Q194 59 199 45Q205 32 220 28Q236 23 267 23H352Q417 23 458 61Q499 99 512 162Q512 165 517 164Q523 164 523 161Q520 132 517 91Q514 50 514 15Q514 0 499 0H33Q31 0 31 6Q31 12 33 12Q68 12 85 17Q103 22 109 37Q115 52 115 81V544Q115 573 109 588Q103 602 85 608Q68 613 33 613Q31 613 31 619Q31 625 33 625Q57 625 88 624Q120 622 154 622Q190 622 220 624Q251 625 275 625Q277 625 277 619Q277 613 275 613Q240 613 223 608Q206 602 200 587Q194 572 194 543Z"/><path transform="translate(70.345 107) scale(0.09 -0.09)" d="M310 -4Q280 -4 236 -1Q192 2 155 2Q121 2 90 1Q58 0 33 0Q31 0 31 6Q31 12 33 12Q68 12 86 17Q104 22 110 37Q116 52 116 81V544Q116 573 110 588Q104 602 87 608Q69 613 35 613Q32 613 32 619Q32 625 35 625Q60 625 90 624Q121 622 155 622Q189 622 228 624Q268 627 296 627Q402 627 480 587Q559 547 603 478Q647 409 647 323Q647 248 620 188Q594 127 547 84Q500 42 439 19Q378 -4 310 -4ZM300 14Q375 14 432 47Q490 80 523 144Q556 209 556 301Q556 388 525 457Q494 527 438 569Q383 610 306 610Q246 610 220 598Q195 586 195 542V92Q195 52 215 33Q235 14 300 14Z"/></g></symbol>
 </svg>
 
 <!-- BARRA FINA DO TOPO (desktop): o índice com o trecho ativo -->
@@ -1069,27 +1072,22 @@ html:not(.js) .d-indice{display:none}
       <h2 id="marca-titulo" data-rv><span class="servico">Branding e identidade visual</span>Uma marca que a pessoa <mark>reconhece</mark> de longe.</h2>
       <p class="sub" data-rv>Antes do anúncio e do post vem a cara da empresa. A Feed desenha a identidade visual: logo, cores, letra, voz e como tudo aparece na rua e na tela.</p>
     </div>
-    <div class="livro" data-nosnippet aria-label="Manual da marca Lume de Papel, marca de demonstração">
-      <p class="livro-topo"><span>Manual da marca · Lume de Papel</span><span class="etiqueta">marca de demonstração</span></p>
+    <div class="livro" data-nosnippet aria-label="Manual da marca Lume de Papel, marca de demonstração e projeto autoral da Feed">
+      <p class="livro-topo"><span>Manual da marca<span> · Lume de Papel</span></span><span class="etiqueta">projeto autoral da Feed</span></p>
       <div class="pecas">
-        <button type="button" class="peca larga p-logo" data-m style="--dy:70px;--r:-3deg" data-leg="Logo|o desenho principal e as versões para fundo claro e escuro."><span class="lume-logo"><svg viewBox="0 0 48 48" aria-hidden="true"><use href="#lume"/></svg><svg viewBox="0 -234 1692 312" role="img" aria-label="Lume de Papel"><use href="#lume-nome" y="-234" width="1692" height="312"/></svg></span><span class="leg">Logo</span></button>
-        <button type="button" class="peca larga p-cores" data-m style="--dx:-60px;--dy:30px;--r:2deg" data-leg="Cores|a paleta com os códigos, pronta para a gráfica e para a tela.">
-          <span style="background:#3F998B;color:#fff">Verde lume<b>#3F998B</b></span><span style="background:#1F4D45;color:#fff">Mata<b>#1F4D45</b></span><span style="background:#C8923C;color:#1C2422">Âmbar<b>#C8923C</b></span><span style="background:#F4EFE4;color:#1C2422;box-shadow:inset 0 0 0 1px rgba(28,36,34,.12)">Papel<b>#F4EFE4</b></span>
+        <button type="button" class="peca p-logo" data-m style="--dy:70px;--r:-3deg" data-leg="Logo|a assinatura principal e as versões para fundo claro e escuro."><svg class="lume-logo" viewBox="0 0 609 104" role="img" aria-label="Lume de Papel"><use href="#lume-logo"/></svg><span class="leg">Logo</span></button>
+        <button type="button" class="peca p-cores" data-m style="--dx:-60px;--dy:30px;--r:2deg" data-leg="Cores|a paleta com os códigos, pronta para a gráfica e para a tela.">
+          <span><i style="background:#F4EFE4;box-shadow:inset 0 0 0 1px rgba(38,59,53,.16)"></i>Papel<b>#F4EFE4</b></span><span><i style="background:#1F4D45"></i>Mata<b>#1F4D45</b></span><span><i style="background:#3F998B"></i>Verde Lume<b>#3F998B</b></span><span><i style="background:#C8923C"></i>Âmbar<b>#C8923C</b></span>
         </button>
-        <button type="button" class="peca larga p-fachada" data-m style="--dy:80px;--r:2deg" data-leg="Fachada|a marca aplicada na rua, do letreiro ao toldo.">
-          <svg viewBox="0 0 320 196" role="img" aria-label="Fachada da loja com o letreiro Lume de Papel">
-            <rect width="320" height="196" fill="#E7DDC8"/><rect y="168" width="320" height="28" fill="#CDBF9F"/>
-            <rect x="22" y="20" width="276" height="150" rx="5" fill="#F8F4EA"/><rect x="22" y="20" width="276" height="42" rx="5" fill="#1F4D45"/>
-            <use href="#lume" x="74" y="28" width="26" height="26"/><use href="#lume-nome" x="108" y="28" width="141" height="26" fill="#F4EFE4"/>
-            <g><path d="M24 62h34v20a17 8 0 0 1-34 0z" fill="#3F998B"/><path d="M58 62h34v20a17 8 0 0 1-34 0z" fill="#F4EFE4"/><path d="M92 62h34v20a17 8 0 0 1-34 0z" fill="#3F998B"/><path d="M126 62h34v20a17 8 0 0 1-34 0z" fill="#F4EFE4"/><path d="M160 62h34v20a17 8 0 0 1-34 0z" fill="#3F998B"/><path d="M194 62h34v20a17 8 0 0 1-34 0z" fill="#F4EFE4"/><path d="M228 62h34v20a17 8 0 0 1-34 0z" fill="#3F998B"/><path d="M262 62h34v20a17 8 0 0 1-34 0z" fill="#F4EFE4"/></g>
-            <rect x="40" y="104" width="152" height="58" rx="3" fill="#CFE3DE"/><use href="#cadernos" x="52" y="106" width="68" height="56"/><use href="#cadernos" x="116" y="110" width="62" height="52"/>
-            <rect x="214" y="98" width="62" height="72" rx="3" fill="#1F4D45"/><rect x="222" y="106" width="46" height="38" rx="2" fill="#CFE3DE"/><circle cx="224" cy="154" r="2.6" fill="#C8923C"/>
-          </svg><span class="leg" style="color:#1C2422">Fachada</span></button>
-        <button type="button" class="peca p-post" data-m style="--dx:-70px;--r:-5deg" data-leg="Post|o modelo das redes, para todo conteúdo ter a mesma cara."><svg viewBox="0 0 120 100" aria-hidden="true"><use href="#cadernos"/></svg><em>Cadernos para presentear</em><span class="leg">Post</span></button>
-        <button type="button" class="peca p-sacola" data-m style="--dx:70px;--r:6deg" data-leg="Embalagem|sacola, etiqueta e papel com a mesma assinatura.">
-          <svg viewBox="0 0 100 120" aria-hidden="true"><path d="M34 34c0-22 32-22 32 0" fill="none" stroke="#8A6A3B" stroke-width="3"/><path d="M14 32h72l6 82H8z" fill="#C9A677"/><path d="M14 32h72l1.500 20H12.500z" fill="#B99562"/><use href="#lume" x="35" y="60" width="30" height="30"/></svg><span class="leg">Embalagem</span></button>
+        <button type="button" class="peca p-fachada" data-m style="--dy:80px;--r:2deg" data-leg="Fachada|a marca aplicada na rua: letreiro, toldo e placa."><img src="assets/lume/fachada.webp" width="1100" height="655" loading="lazy" decoding="async" alt="Fachada da loja Lume de Papel, com letreiro, toldo listrado e placa de bandeira"><span class="leg">Fachada</span></button>
+        <button type="button" class="peca p-post" data-m style="--dx:-70px;--r:-5deg" data-leg="Post|o modelo das redes, para todo conteúdo ter a mesma cara."><img src="assets/lume/post.webp" width="1080" height="1080" loading="lazy" decoding="async" alt="Post da Lume de Papel: Um presente. Muitas páginas pela frente."><span class="leg">Post</span></button>
+        <button type="button" class="peca p-sacola" data-m style="--dx:70px;--r:6deg" data-leg="Embalagem|sacola, caixa, cinta e lacre com a mesma assinatura."><img src="assets/lume/embalagem.webp" width="1000" height="609" loading="lazy" decoding="async" alt="Embalagens da Lume de Papel: sacola, caixa, lacre e caderno com cinta"><span class="leg">Embalagem</span></button>
       </div>
-      <p class="livro-leg" aria-live="polite"><span><b>Toque numa peça.</b> Cada uma mostra o que entra no manual.</span></p>
+      <div class="livro-pe">
+        <p class="livro-leg" aria-live="polite"><span><b>Toque numa peça.</b> Cada uma mostra o que entra no manual.</span></p>
+        <!-- NA SUBIDA: este link vira /portfolio/lume-de-papel/ (a página do projeto no site, sem target). Até lá abre o manual completo publicado. -->
+        <a class="btn btn-linha" href="https://claude.ai/artifact/TohhykXmc93XcMPVqjTRSk" target="_blank" rel="noopener">Ver o projeto completo<svg aria-hidden="true"><use href="#i-seta"/></svg></a>
+      </div>
     </div>
   </div>
 </section>
@@ -1111,8 +1109,8 @@ html:not(.js) .d-indice{display:none}
             <div class="post-topo" aria-hidden="true"><i class="av"></i>ana.rsilva</div>
             <div class="post-foto foto-a"></div>
             <div class="post-acoes" aria-hidden="true"><svg><use href="#i-acoes"/></svg></div>
-            <div class="post-topo"><i class="av av-lume"><svg aria-hidden="true"><use href="#lume"/></svg></i><span>lumedepapel<small>Patrocinado</small></span></div>
-            <div class="post-foto foto-ad"><svg viewBox="0 0 120 100" aria-hidden="true"><use href="#cadernos"/></svg><p>Cadernos para presentear</p></div>
+            <div class="post-topo"><i class="av av-lume"><svg aria-hidden="true"><use href="#lume-ld"/></svg></i><span>lumedepapel<small>Patrocinado</small></span></div>
+            <div class="post-foto foto-ad"><img src="assets/lume/post.webp" width="1080" height="1080" loading="lazy" decoding="async" alt="Anúncio da Lume de Papel: Um presente. Muitas páginas pela frente."></div>
             <a class="post-cta" href="#agente" aria-label="Enviar mensagem no WhatsApp: ver o Agente atender">Enviar mensagem no WhatsApp<svg aria-hidden="true"><use href="#i-seta"/></svg></a>
             <div class="post-acoes" aria-hidden="true"><svg><use href="#i-acoes"/></svg></div>
             <p class="post-leg"><b>lumedepapel</b> Capa azul ou verde. Você escolhe, a gente embrulha.</p>
@@ -1123,7 +1121,7 @@ html:not(.js) .d-indice{display:none}
       <div class="g-card" data-m="1,.5" aria-label="Demonstração: resultado patrocinado da Lume de Papel no Google">
         <p class="g-busca"><svg aria-hidden="true"><use href="#i-g"/></svg>cadernos para presente</p>
         <p class="g-pat">Patrocinado</p>
-        <p class="g-site"><i><svg aria-hidden="true"><use href="#lume"/></svg></i><span>Lume de Papel<small>www.lumedepapel.demo</small></span></p>
+        <p class="g-site"><i><svg aria-hidden="true"><use href="#lume-ld"/></svg></i><span>Lume de Papel<small>www.lumedepapel.example</small></span></p>
         <p class="g-tit">Cadernos para presente | Lume de Papel</p>
         <p class="g-desc">Capa dura, costura à mão e embrulho incluso. Chame no WhatsApp e escolha a cor.</p>
         <a class="g-chip" href="#agente" aria-label="Chamar no WhatsApp: ver o Agente atender"><svg aria-hidden="true"><use href="#i-wa"/></svg>Chamar no WhatsApp</a>
@@ -1188,7 +1186,7 @@ html:not(.js) .d-indice{display:none}
         <p class="coment"><small><svg aria-hidden="true"><use href="#i-ig"/></svg>comentário no post</small><b>marina.tavares</b> <strong>AGENDA</strong></p>
         <button class="btn btn-preto" type="button" id="comentar"><svg aria-hidden="true"><use href="#i-ig"/></svg><span>Comentar AGENDA</span></button>
         <div class="dm-vaga" aria-live="polite"><p class="dig" aria-hidden="true"><i></i><i></i><i></i></p>
-        <p class="dm"><small>mensagem direta, enviada sozinha</small>Oi, Marina! Aqui está o link para você agendar: <b>lumedepapel.demo/agendar</b></p></div>
+        <p class="dm"><small>mensagem direta, enviada sozinha</small>Oi, Marina! Aqui está o link para você agendar: <b>lumedepapel.example/agendar</b></p></div>
       </div>
     </div>
   </div>
@@ -1260,7 +1258,7 @@ html:not(.js) .d-indice{display:none}
         <img class="moldura" src="assets/fone.webp" alt="">
       </div>
       <div class="pdf" aria-label="Proposta de exemplo em PDF">
-        <p class="pdf-topo"><svg viewBox="0 0 48 48" aria-hidden="true"><use href="#lume"/></svg><svg viewBox="0 -234 1692 312" role="img" aria-label="Lume de Papel"><use href="#lume-nome" y="-234" width="1692" height="312"/></svg></p>
+        <p class="pdf-topo"><svg viewBox="0 0 609 104" role="img" aria-label="Lume de Papel"><use href="#lume-logo"/></svg></p>
         <p class="pdf-tit">Proposta de exemplo</p>
         <p>Para Lia Ventora</p>
         <dl>
